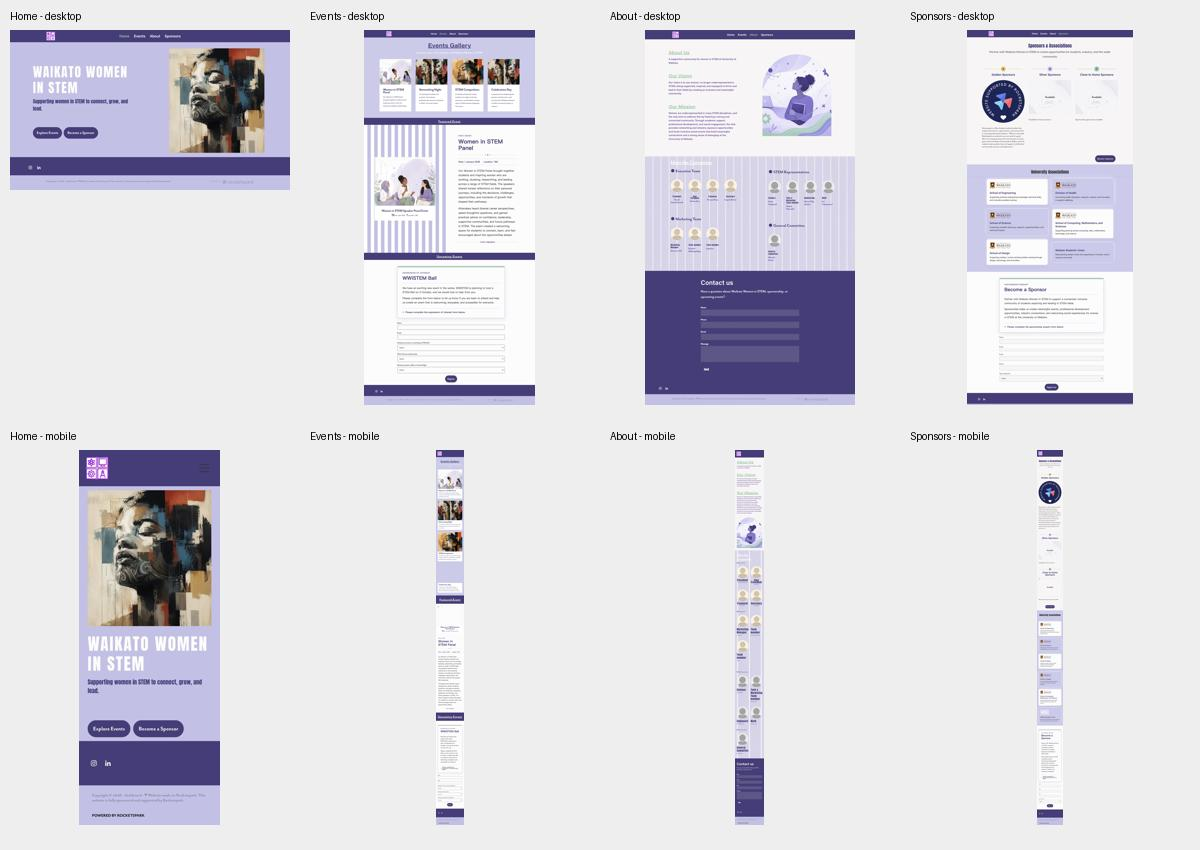
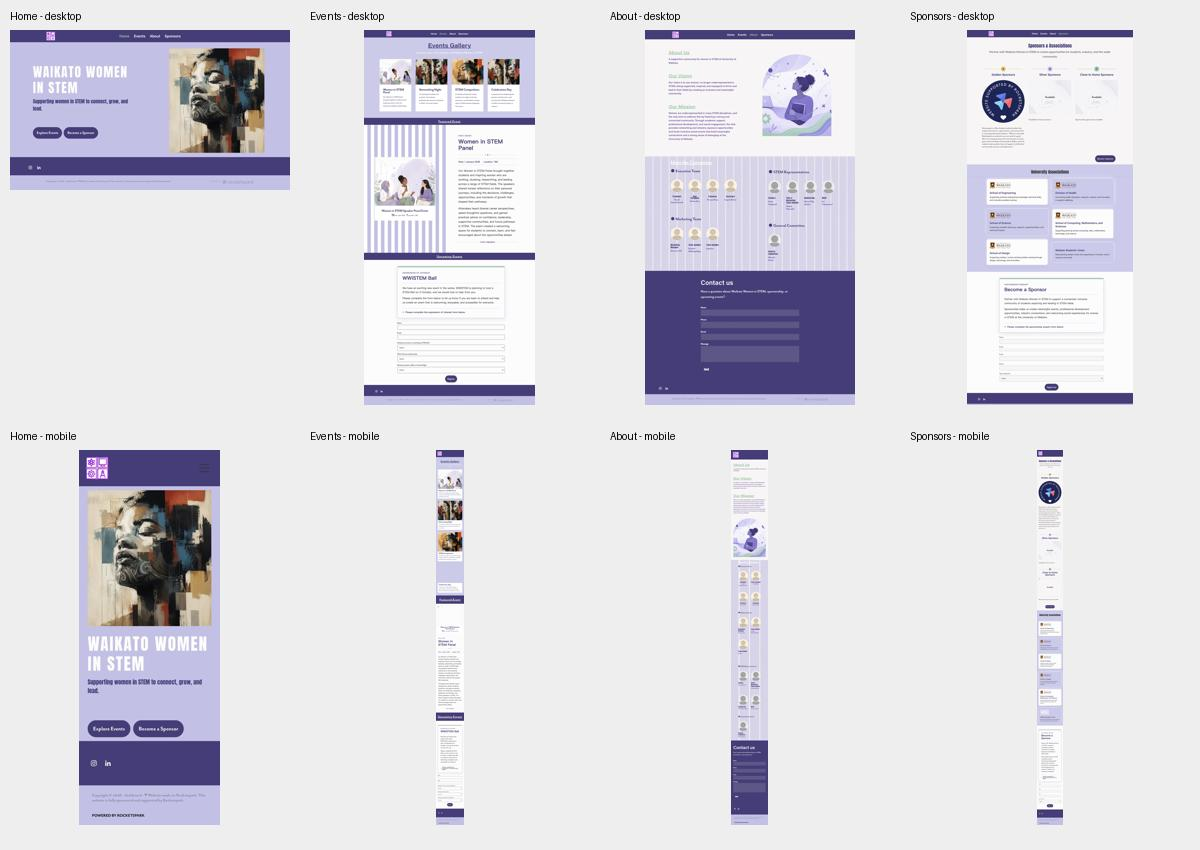
Update mobile About screenshot after website layout changes

Changed region(s): [[0.5858, 0.52, 0.6475, 0.9788]]

diff --git a/README.md b/README.md
@@ -52,7 +52,7 @@ Captured at a 390px viewport width, illustrating the layout at a phone-sized bre
 
 | Home | Events | About | Sponsors |
 | --- | --- | --- | --- |
-| ![Home mobile](screenshots/home-mobile.jpg) | ![Events mobile](screenshots/events-mobile.jpg) | ![About mobile](screenshots/about-mobile-complete.jpg) | ![Sponsors mobile](screenshots/sponsors-mobile.jpg) |
+| ![Home mobile](screenshots/home-mobile.jpg) | ![Events mobile](screenshots/events-mobile.jpg) | ![About mobile](screenshots/about-mobile-updated.jpg) | ![Sponsors mobile](screenshots/sponsors-mobile.jpg) |
 
 ## Scope and preservation
 
